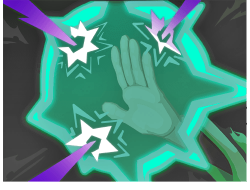
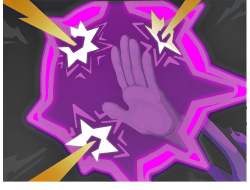
Balance updates
Reverting Inspiring Flames back to its original purple art.

Updated wording of Enhance mechanic to make it more clear.

Haunting Echo now common

Advancing Guard buffed to 8 Block

Haunt renamed to Haunted Hand, no longer Advances.  0-cost draw 2 is already good enough even with its drawback.

Inspiring Flames renamed to Stoke the Fire.  Too similar to Invigorating Flames.

Power From Beyond now a Rare.  Does 1 energy 2 cards, +1 to each upgraded

Retreat to Shadows aka Incorporeal - No longer has Ethereal.

Second Seal - Buffed to 8 gold.

Burning nerfs:

Firestarter nerf.  Now exactly comparable to Poisoned Stab.

Burning Touch reduced to 3 burn on each component.

Incineration - Damage increased by 1, times dropped to 3 (+1 unupgraded, no other bonuses upgraded)

Extra Crispy+ is now innate instead of gaining +2 to all burn sources.

Volcano Visage - Now costs 1

diff --git a/src/main/java/theHexaghost/cards/Incineration.java b/src/main/java/theHexaghost/cards/Incineration.java
@@ -17,7 +17,7 @@ public class Incineration extends AbstractHexaCard {
     private static final int DAMAGE = 1;
     private static final int UPG_DAMAGE = 1;
 
-    private static final int MAGIC = 1;
+    private static final int MAGIC = 3;
     private static final int UPG_MAGIC = 1;
 
     public Incineration() {
@@ -27,14 +27,14 @@ public class Incineration extends AbstractHexaCard {
     }
 
     public void use(AbstractPlayer p, AbstractMonster m) {
-        for (int i = 0; i < 4; i++) {
+        for (int i = 0; i < magicNumber; i++) {
             atb(new AbstractGameAction() {
                 @Override
                 public void update() {
                     isDone = true;
                     AbstractMonster m = AbstractDungeon.getRandomMonster();
                     atb(new DamageAction(m, makeInfo(), AttackEffect.FIRE));
-                    atb(new BurnAction(m, magicNumber));
+                    atb(new BurnAction(m, 1));
                 }
             });
         }

diff --git a/src/main/java/theHexaghost/cards/ExtraCrispy.java b/src/main/java/theHexaghost/cards/ExtraCrispy.java
@@ -10,22 +10,25 @@ public class ExtraCrispy extends AbstractHexaCard {
 
     //stupid intellij stuff POWER, SELF, UNCOMMON
 
-    private static final int MAGIC = 1;
-    private static final int UPG_MAGIC = 1;
+   // private static final int MAGIC = 1;
+   // private static final int UPG_MAGIC = 1;
 
     public ExtraCrispy() {
         super(ID, 1, CardType.POWER, CardRarity.UNCOMMON, CardTarget.SELF);
-        baseMagicNumber = magicNumber = MAGIC;
+       // baseMagicNumber = magicNumber = MAGIC;
     }
 
     public void use(AbstractPlayer p, AbstractMonster m) {
-        applyToSelf(new CrispyPower(magicNumber));
+        applyToSelf(new CrispyPower(1));
     }
 
     public void upgrade() {
         if (!upgraded) {
             upgradeName();
-            upgradeMagicNumber(UPG_MAGIC);
+            //upgradeMagicNumber(UPG_MAGIC);
+            isInnate = true;
+            rawDescription = UPGRADE_DESCRIPTION;
+            initializeDescription();
         }
     }
 }

diff --git a/src/main/java/theHexaghost/cards/Firestarter.java b/src/main/java/theHexaghost/cards/Firestarter.java
@@ -12,11 +12,11 @@ public class Firestarter extends AbstractHexaCard {
 
     //stupid intellij stuff ATTACK, ENEMY, COMMON
 
-    private static final int DAMAGE = 4;
+    private static final int DAMAGE = 6;
     private static final int UPG_DAMAGE = 2;
 
-    private static final int MAGIC = 4;
-    private static final int UPG_MAGIC = 2;
+    private static final int MAGIC = 3;
+    private static final int UPG_MAGIC = 1;
 
     public Firestarter() {
         super(ID, 1, CardType.ATTACK, CardRarity.COMMON, CardTarget.ENEMY);

diff --git a/src/main/java/theHexaghost/cards/PowerFromBeyond.java b/src/main/java/theHexaghost/cards/PowerFromBeyond.java
@@ -30,7 +30,7 @@ public class PowerFromBeyond extends AbstractHexaCard {
     @Override
     public void triggerOnExhaust() {
         applyToSelf(new EnergizedBluePower(AbstractDungeon.player, magicNumber));
-        applyToSelf(new DrawCardNextTurnPower(AbstractDungeon.player, 2));
+        applyToSelf(new DrawCardNextTurnPower(AbstractDungeon.player, magicNumber + 1));
     }
 
     public void use(AbstractPlayer p, AbstractMonster m) {

diff --git a/src/main/java/theHexaghost/cards/VolcanoVisage.java b/src/main/java/theHexaghost/cards/VolcanoVisage.java
@@ -14,7 +14,7 @@ public class VolcanoVisage extends AbstractHexaCard {
     private static final int UPG_MAGIC = 2;
 
     public VolcanoVisage() {
-        super(ID, 2, CardType.POWER, CardRarity.RARE, CardTarget.SELF);
+        super(ID, 1, CardType.POWER, CardRarity.RARE, CardTarget.SELF);
         baseMagicNumber = magicNumber = MAGIC;
         isEthereal = true;
     }

diff --git a/src/main/java/theHexaghost/cards/HauntingEcho.java b/src/main/java/theHexaghost/cards/HauntingEcho.java
@@ -18,7 +18,7 @@ public class HauntingEcho extends AbstractHexaCard {
     private static final int UPG_DAMAGE = 3;
 
     public HauntingEcho() {
-        super(ID, 1, CardType.ATTACK, CardRarity.UNCOMMON, CardTarget.SELF_AND_ENEMY);
+        super(ID, 1, CardType.ATTACK, CardRarity.COMMON, CardTarget.SELF_AND_ENEMY);
         baseDamage = DAMAGE;
     }
 

diff --git a/src/main/java/theHexaghost/cards/seals/SecondSeal.java b/src/main/java/theHexaghost/cards/seals/SecondSeal.java
@@ -12,7 +12,7 @@ public class SecondSeal extends AbstractSealCard {
 
     //stupid intellij stuff POWER, SELF, UNCOMMON
 
-    private static final int MAGIC = 5;
+    private static final int MAGIC = 8;
 
     public SecondSeal() {
         super(ID, 1, CardType.POWER, CardRarity.UNCOMMON, CardTarget.SELF);

diff --git a/src/main/java/theHexaghost/cards/RetreatToShadows.java b/src/main/java/theHexaghost/cards/RetreatToShadows.java
@@ -18,7 +18,6 @@ public class RetreatToShadows extends AbstractHexaCard {
     public RetreatToShadows() {
         super(ID, 0, CardType.SKILL, CardRarity.UNCOMMON, CardTarget.SELF);
         baseMagicNumber = magicNumber = MAGIC;
-        isEthereal = true;
         exhaust = true;
     }
 

diff --git a/src/main/java/theHexaghost/cards/AdvancingGuard.java b/src/main/java/theHexaghost/cards/AdvancingGuard.java
@@ -10,7 +10,7 @@ public class AdvancingGuard extends AbstractHexaCard {
 
     //stupid intellij stuff SKILL, SELF, COMMON
 
-    private static final int BLOCK = 7;
+    private static final int BLOCK = 8;
     private static final int UPG_BLOCK = 3;
 
     public AdvancingGuard() {

diff --git a/src/main/java/theHexaghost/cards/BurningTouch.java b/src/main/java/theHexaghost/cards/BurningTouch.java
@@ -12,7 +12,7 @@ public class BurningTouch extends AbstractHexaCard {
 
     //stupid intellij stuff SKILL, ENEMY, COMMON
 
-    private static final int MAGIC = 4;
+    private static final int MAGIC = 3;
     private static final int UPG_MAGIC = 2;
 
     public BurningTouch() {

diff --git a/src/main/java/theHexaghost/cards/Haunt.java b/src/main/java/theHexaghost/cards/Haunt.java
@@ -25,7 +25,6 @@ public class Haunt extends AbstractHexaCard {
     }
 
     public void use(AbstractPlayer p, AbstractMonster m) {
-        atb(new AdvanceAction());
         atb(new DrawCardAction(p, magicNumber));
         atb(new AbstractGameAction() {
             @Override
